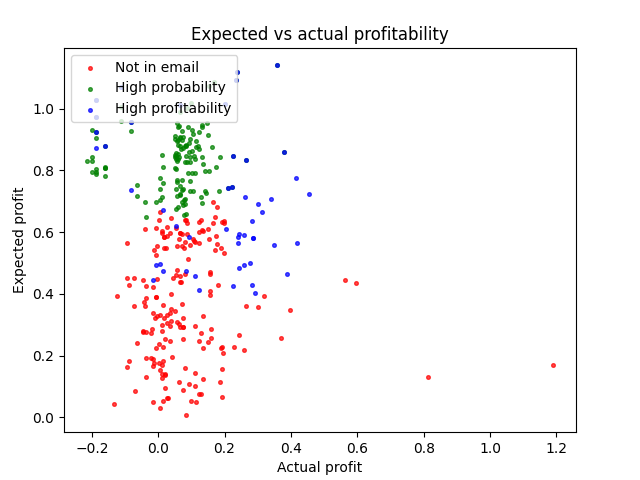
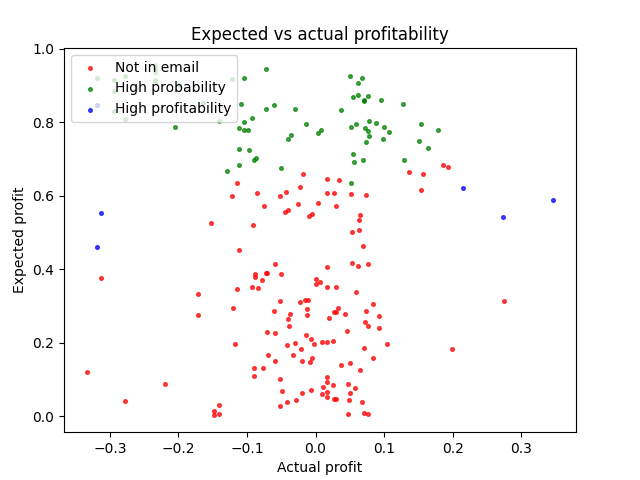
Put some specific plotting functions into seperate file

diff --git a/scheduled_jobs/weekly_summary/send_summary.py b/scheduled_jobs/weekly_summary/send_summary.py
@@ -20,6 +20,7 @@ os.chdir("/home/pi/Documents/python_scripts/option_trading")
 from option_trading_nonprod.aws import *
 from option_trading_nonprod.other.trading_strategies import *
 from option_trading_nonprod.other.options_pricing import *
+from option_trading_nonprod.other.specific_plots import *
 from option_trading_nonprod.utilities.email import *
 from option_trading_nonprod.validation.calibration import *
 from option_trading_nonprod.validation.classification import *
@@ -233,81 +234,13 @@ high_prof_df = dfFilterOnGivenSet(df, hprof_config)
 
 ####################################
 # Create bar plots showing share of successes per strike price increase bucket
-all_strikeIncreaseBin = df[['baseSymbol','strikePricePercBin','reachedStrikePrice']].groupby(['strikePricePercBin','reachedStrikePrice']).count()
-all_binPercentage = all_strikeIncreaseBin.groupby(level=0).apply(lambda x:
-												 100 * x / float(x.sum())).reset_index(drop=False)
+GroupsPerformanceComparisonBar(df, high_prob_df, high_prof_df, savefig=True, saveFileName="scheduled_jobs/summary_content/strikePerBins.png")
 
-hprob_strikeIncreaseBin = high_prob_df[['baseSymbol','strikePricePercBin','reachedStrikePrice']].groupby(['strikePricePercBin','reachedStrikePrice']).count()
-hprob_binPercentage = hprob_strikeIncreaseBin.groupby(level=0).apply(lambda x:
-																 100 * x / float(x.sum())).reset_index(drop=False)
-
-hprof_strikeIncreaseBin = high_prof_df[['baseSymbol','strikePricePercBin','reachedStrikePrice']].groupby(['strikePricePercBin','reachedStrikePrice']).count()
-hprof_binPercentage = hprof_strikeIncreaseBin.groupby(level=0).apply(lambda x:
-																 100 * x / float(x.sum())).reset_index(drop=False)
-
-
-fig, axs = plt.subplots(1, 3, figsize=(12, 5), sharey=True)
-# All contracts
-axs[0].bar(all_binPercentage.dropna()['strikePricePercBin'].unique(), 100, color='red')
-if len(all_binPercentage[all_binPercentage['reachedStrikePrice']==1]['baseSymbol']) > 0:
-	axs[0].bar(all_binPercentage['strikePricePercBin'].unique(), all_binPercentage[all_binPercentage['reachedStrikePrice']==1]['baseSymbol'], color='green')
-axs[0].tick_params('x', labelrotation=45)
-axs[0].title.set_text('All Calls')
-axs[0].set_ylabel('Fraction reaching strike price')
-
-# high probability contracts
-axs[1].bar(hprob_binPercentage.dropna()['strikePricePercBin'].unique(), 100, color='red')
-if len(hprob_binPercentage[hprob_binPercentage['reachedStrikePrice']==1]['baseSymbol']) > 0:
-	axs[1].bar(hprob_binPercentage['strikePricePercBin'].unique(), hprob_binPercentage[hprob_binPercentage['reachedStrikePrice']==1]['baseSymbol'], color='green')
-axs[1].tick_params('x', labelrotation=45)
-axs[1].title.set_text('High probability')
-axs[1].set_xlabel("Strike price increase with respect to stock price")
-
-# high probability contracts
-axs[2].bar(hprof_binPercentage.dropna()['strikePricePercBin'].unique(), 100, color='red')
-if len(hprof_binPercentage[hprof_binPercentage['reachedStrikePrice']==1]['baseSymbol']) > 0:
-	axs[2].bar(hprof_binPercentage['strikePricePercBin'].unique(), hprof_binPercentage[hprof_binPercentage['reachedStrikePrice']==1]['baseSymbol'], color='green')
-axs[2].tick_params('x', labelrotation=45)
-axs[2].title.set_text('High profitability')
-
-fig.tight_layout(rect=[0,0,0.9,0.9])
-fig.savefig("scheduled_jobs/summary_content/strikePerBins.png")
 
 #################################### Unsure
-# Create scatter plot (strike price progress vs predicted probability)
-# rows not appearing in any of the email tables
-not_email_df = df[(~df.index.isin(high_prob_df.index)) & (~df.index.isin(high_prof_df.index))]
+ExpvsActualProfitabilityScatter(df,high_prob_df, high_prof_df, actualCol='profitPerc',  savefig=True, saveFileName="scheduled_jobs/summary_content/scatter_profitability.png")
+ExpvsActualProfitabilityScatter(df,high_prob_df, high_prof_df, actualCol='maxProfitability',  savefig=True, saveFileName="scheduled_jobs/summary_content/scatter_maxProfitability.png")
 
-fig = plt.figure()
-# cm = plt.cm.get_cmap('Blues')
-ax = fig.add_axes([0.1, 0.1, 0.8, 0.8])
-ax.scatter(not_email_df['profitPerc'], not_email_df['expPercIncrease'], s=7, color='r', alpha=0.7, label='Not in email')
-ax.scatter(high_prob_df['profitPerc'], high_prob_df['expPercIncrease'], s=7, color='g', alpha=0.7, label='High probability')
-ax.scatter(high_prof_df['profitPerc'], high_prof_df['expPercIncrease'], s=7, color='b', alpha=0.7, label='High profitability')
-ax.legend(loc="upper left")
-ax.set_xlabel('Actual profit')
-ax.set_ylabel('Expected profit')
-ax.set_title('Expected vs actual profitability')
-plt.show()
-fig.savefig("scheduled_jobs/summary_content/scatter_profitability.png")
-
-print('Created and saved scatter plot (expected vs actual profitability')
-
-fig = plt.figure()
-# cm = plt.cm.get_cmap('Blues')
-ax = fig.add_axes([0.1, 0.1, 0.8, 0.8])
-ax.scatter(not_email_df['maxProfitability'], not_email_df['expPercIncrease'], s=7, color='r', alpha=0.7, label='Not in email')
-ax.scatter(high_prof_df['maxProfitability'], high_prof_df['expPercIncrease'], s=7, color='b', alpha=0.7, label='High profitability')
-ax.scatter(high_prob_df['maxProfitability'], high_prob_df['expPercIncrease'], s=7, color='g', alpha=0.7, label='High probability')
-ax.legend(loc="upper right")
-ax.set_xlim(xmax=3)
-ax.set_xlabel('Max profit')
-ax.set_ylabel('Expected profit')
-ax.set_title('Expected vs max profitability')
-plt.show()
-fig.savefig("scheduled_jobs/summary_content/scatter_maxProfitability.png")
-
-print('Created and saved scatter plot (expected vs max profitability')
 ############################## option pricing  (try out)
 df['expOptionPrice'] = getBSCallPriceWrapper(df, Scol = 'strikePrice', Kcol = 'strikePrice'
 											 , eventDateCol = 'strikePriceDate', expirationDateCol = 'expirationDate'

diff --git a/option_trading_nonprod/other/specific_plots.py b/option_trading_nonprod/other/specific_plots.py
@@ -1,0 +1,68 @@
+def GroupsPerformanceComparisonBar(df, high_prob_df, high_prof_df, savefig=False, saveFileName='test.png'):
+
+	df_=df.copy()
+
+	# Create bar plots showing share of successes per strike price increase bucket
+	all_strikeIncreaseBin = df_[['baseSymbol','strikePricePercBin','reachedStrikePrice']].groupby(['strikePricePercBin','reachedStrikePrice']).count()
+	all_binPercentage = all_strikeIncreaseBin.groupby(level=0).apply(lambda x:
+																	 100 * x / float(x.sum())).reset_index(drop=False)
+
+	hprob_strikeIncreaseBin = high_prob_df[['baseSymbol','strikePricePercBin','reachedStrikePrice']].groupby(['strikePricePercBin','reachedStrikePrice']).count()
+	hprob_binPercentage = hprob_strikeIncreaseBin.groupby(level=0).apply(lambda x:
+																		 100 * x / float(x.sum())).reset_index(drop=False)
+
+	hprof_strikeIncreaseBin = high_prof_df[['baseSymbol','strikePricePercBin','reachedStrikePrice']].groupby(['strikePricePercBin','reachedStrikePrice']).count()
+	hprof_binPercentage = hprof_strikeIncreaseBin.groupby(level=0).apply(lambda x:
+																		 100 * x / float(x.sum())).reset_index(drop=False)
+
+
+	fig, axs = plt.subplots(1, 3, figsize=(12, 5), sharey=True)
+	# All contracts
+	axs[0].bar(all_binPercentage.dropna()['strikePricePercBin'].unique(), 100, color='red')
+	if len(all_binPercentage[all_binPercentage['reachedStrikePrice']==1]['baseSymbol']) > 0:
+		axs[0].bar(all_binPercentage['strikePricePercBin'].unique(), all_binPercentage[all_binPercentage['reachedStrikePrice']==1]['baseSymbol'], color='green')
+	axs[0].tick_params('x', labelrotation=45)
+	axs[0].title.set_text('All Calls')
+	axs[0].set_ylabel('Fraction reaching strike price')
+
+	# high probability contracts
+	axs[1].bar(hprob_binPercentage.dropna()['strikePricePercBin'].unique(), 100, color='red')
+	if len(hprob_binPercentage[hprob_binPercentage['reachedStrikePrice']==1]['baseSymbol']) > 0:
+		axs[1].bar(hprob_binPercentage['strikePricePercBin'].unique(), hprob_binPercentage[hprob_binPercentage['reachedStrikePrice']==1]['baseSymbol'], color='green')
+	axs[1].tick_params('x', labelrotation=45)
+	axs[1].title.set_text('High probability')
+	axs[1].set_xlabel("Strike price increase with respect to stock price")
+
+	# high probability contracts
+	axs[2].bar(hprof_binPercentage.dropna()['strikePricePercBin'].unique(), 100, color='red')
+	if len(hprof_binPercentage[hprof_binPercentage['reachedStrikePrice']==1]['baseSymbol']) > 0:
+		axs[2].bar(hprof_binPercentage['strikePricePercBin'].unique(), hprof_binPercentage[hprof_binPercentage['reachedStrikePrice']==1]['baseSymbol'], color='green')
+	axs[2].tick_params('x', labelrotation=45)
+	axs[2].title.set_text('High profitability')
+
+	fig.tight_layout(rect=[0,0,0.9,0.9])
+	if savefig:
+		fig.savefig(saveFileName)
+
+def ExpvsActualProfitabilityScatter(df,high_prob_df ,high_prof_df, actualCol, savefig=False, saveFileName='test.png'):
+	typeOfActual = 'Max' if actualCol.startswith('max') else 'Expected'
+
+	# Create scatter plot (strike price progress vs predicted probability)
+	# rows not appearing in any of the email tables
+	not_email_df = df[(~df.index.isin(high_prob_df.index)) & (~df.index.isin(high_prof_df.index))]
+
+	fig = plt.figure()
+	# cm = plt.cm.get_cmap('Blues')
+	ax = fig.add_axes([0.1, 0.1, 0.8, 0.8])
+	ax.scatter(not_email_df[actualCol], not_email_df['expPercIncrease'], s=7, color='r', alpha=0.7, label='Not in email')
+	ax.scatter(high_prob_df[actualCol], high_prob_df['expPercIncrease'], s=7, color='g', alpha=0.7, label='High probability')
+	ax.scatter(high_prof_df[actualCol], high_prof_df['expPercIncrease'], s=7, color='b', alpha=0.7, label='High profitability')
+	ax.legend(loc="upper left")
+	ax.set_xlabel(f'{typeOfActual} profit')
+	ax.set_ylabel('Expected profit')
+	ax.set_title(f'Expected vs {typeOfActual} profitability')
+	plt.show()
+	if savefig:
+		fig.savefig(saveFileName)
+
+	print(f'Created and saved scatter plot ({typeOfActual} vs actual profitability)')

diff --git a/option_trading_nonprod/aws.py b/option_trading_nonprod/aws.py
@@ -47,6 +47,9 @@ def get_matching_s3_objects(s3_con, bucket, prefix="", suffix=""):
         this prefix (optional).
     :param suffix: Only fetch objects whose keys end with
         this suffix (optional).
+
+    # thanks to
+    # https://alexwlchan.net/2019/07/listing-s3-keys/
     """
     paginator = s3_con.get_paginator("list_objects_v2")
 
